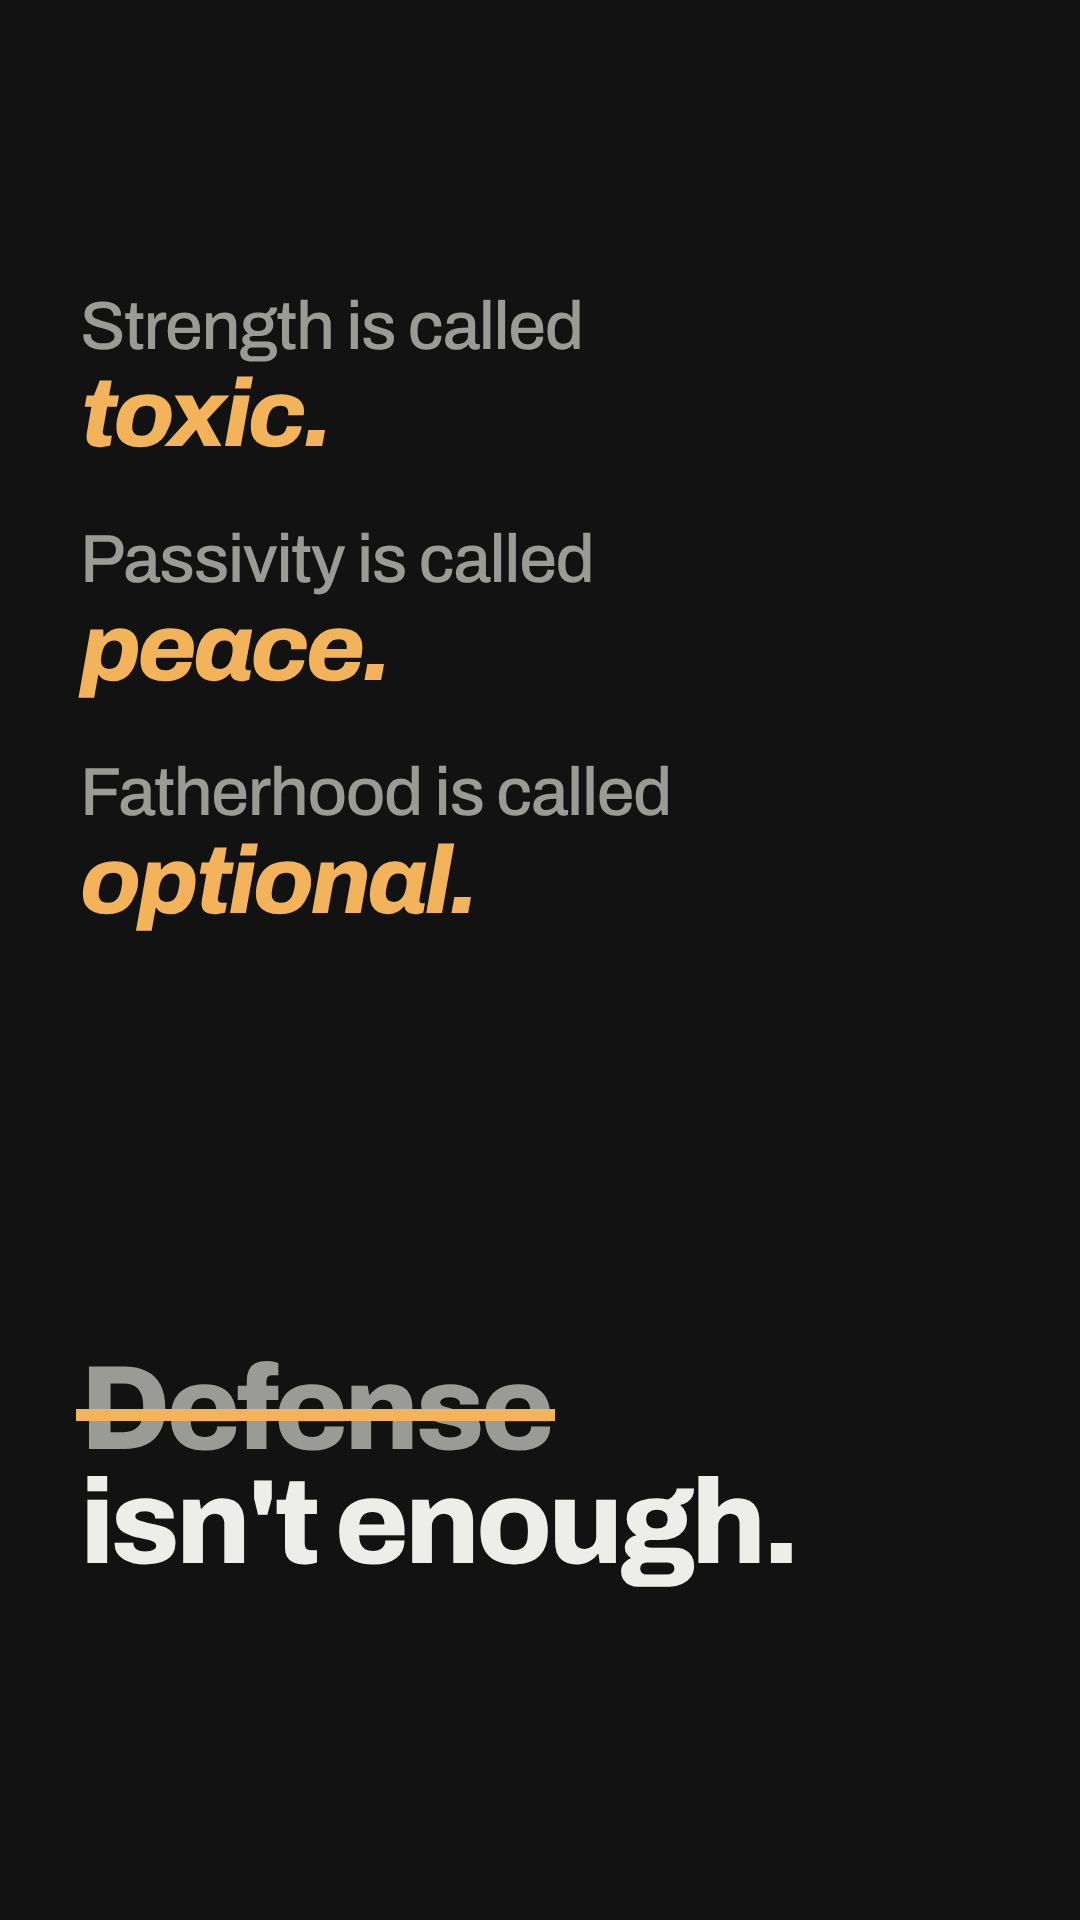
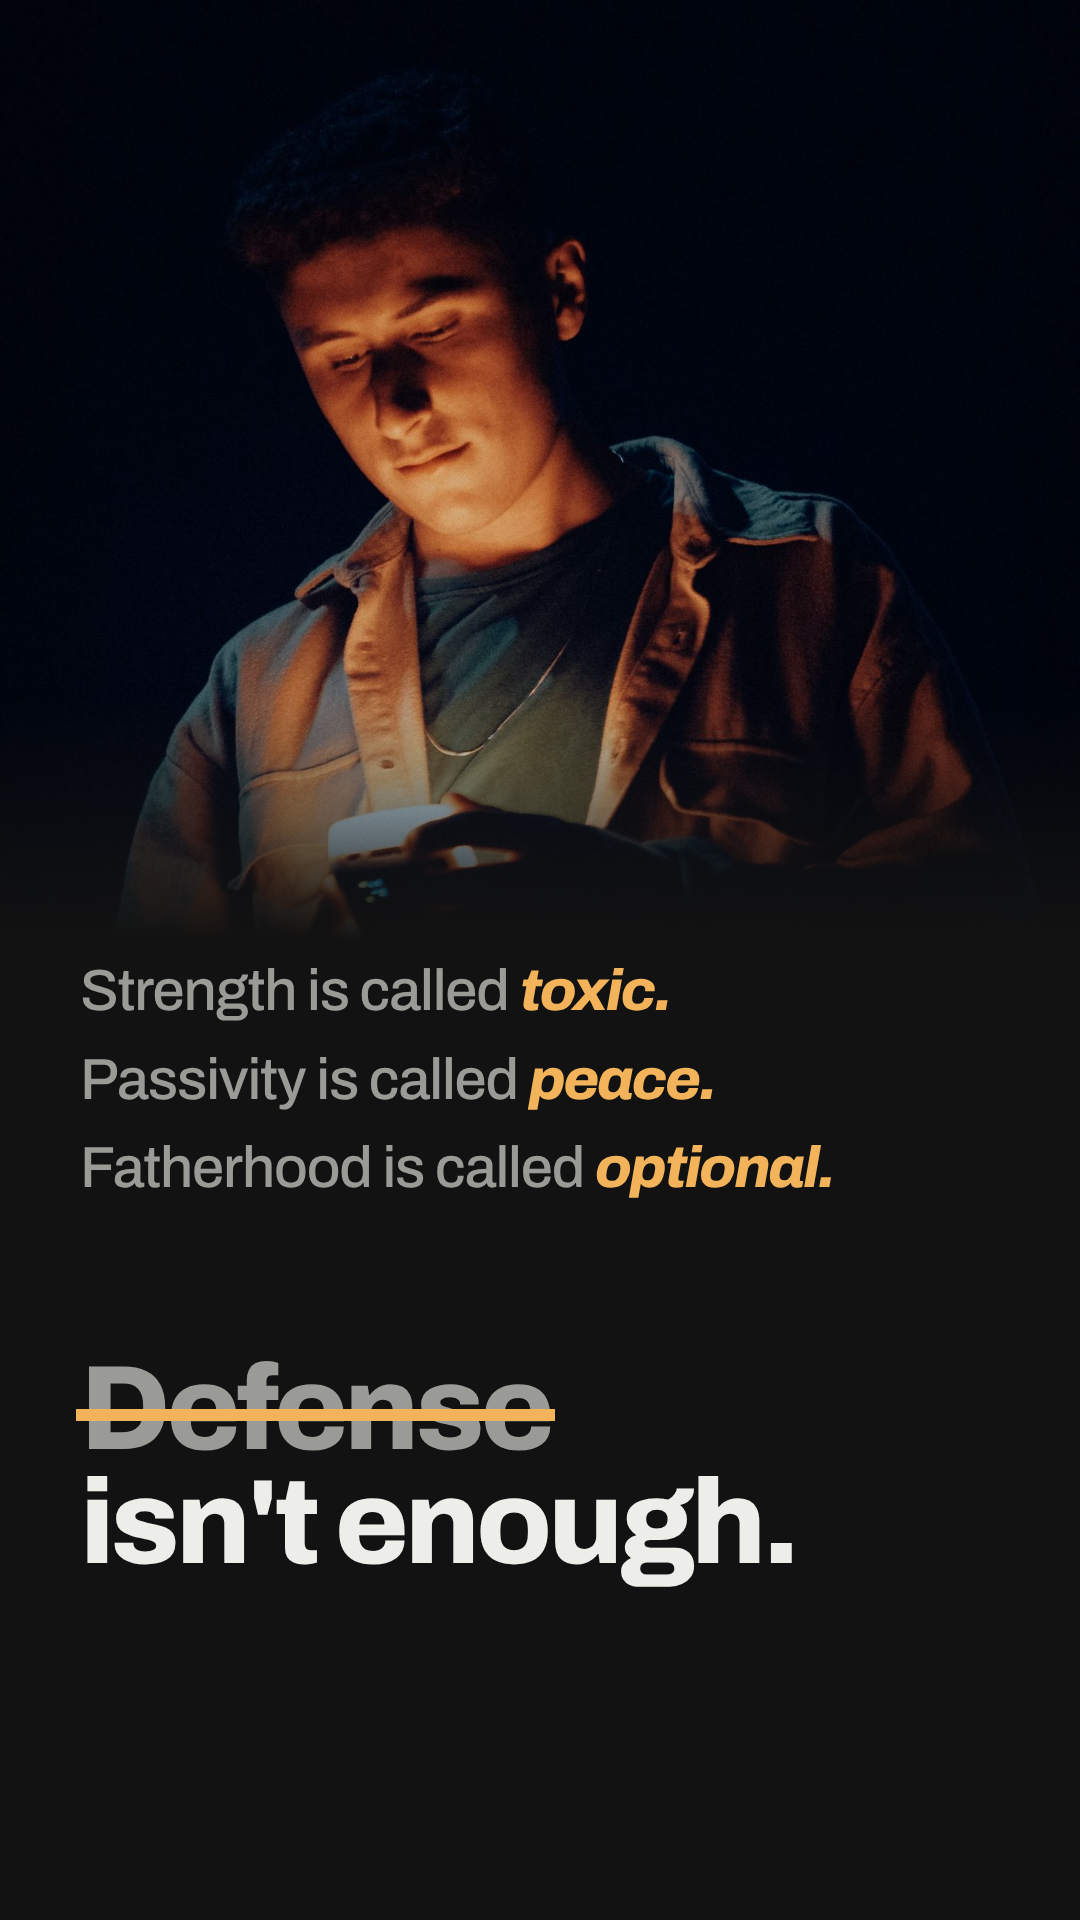
Add Pexels photos to story slides 1, 2, 5 and 6
Claude-Session: https://claude.ai/code/session_0116Hg7omUieHTTxqUcCEPH1

Changed region(s): [[0.0611, 0.0938, 0.7944, 0.625], [0.7333, 0.2812, 0.8861, 0.4375]]

diff --git a/instagram-story/story.html b/instagram-story/story.html
@@ -35,8 +35,8 @@
 
   /* S2 */
   .claims { display: grid; gap: 56px; }
-  .claim { font-weight: 500; font-size: 68px; line-height: 1.08; letter-spacing: -.02em; color: var(--mute); }
-  .claim b { display: block; font-weight: 800; color: var(--paper); font-size: 96px; letter-spacing: -.035em; }
+  .claim { font-weight: 500; font-size: 58px; line-height: 1.08; letter-spacing: -.02em; color: var(--mute); }
+  .claim b { font-weight: 800; color: var(--paper); font-size: 58px; letter-spacing: -.035em; }
   .claim i { color: var(--signal); font-weight: 800; }
   .strike { position: relative; color: var(--mute); }
   .strike::after { content: ""; position: absolute; left: -4px; right: -4px; top: 50%; height: 12px; background: var(--signal); }
@@ -60,17 +60,21 @@
 
 <!-- 1. Full-bleed photo, statement bottom-left -->
 <section class="slide" id="s1">
-  <div class="abs" style="top:50%; transform:translateY(-50%)">
+  <div class="photo" style="left:0; right:0; top:0; height:1600px; background-position:center bottom" data-n="1"></div>
+  <div style="position:absolute; inset:0; background:linear-gradient(180deg, rgba(18,18,18,.75) 0%, rgba(18,18,18,.35) 45%, rgba(18,18,18,0) 62%, rgba(18,18,18,0) 76%, var(--ink) 84%)"></div>
+  <div class="abs" style="top:var(--top)">
     <div class="label" style="margin-bottom:44px">Real talk, men</div>
     <h1 class="d xl">Men are under <em>attack.</em></h1>
-    <p class="body" style="margin-top:48px">The world has never worked this hard to make men <b>passive, soft, and absent.</b></p>
+    <p class="body" style="margin-top:48px; color:var(--paper)">The world has never worked this hard to make men <b>passive, soft, and absent.</b></p>
   </div>
 </section>
 
 <!-- 2. Type only. Three claims, then the turn -->
 <section class="slide" id="s2">
-  <div class="abs" style="top:calc(var(--top) + 40px)">
-    <div class="claims">
+  <div class="photo" style="left:0; right:0; top:0; height:940px; background-position:center 20%" data-n="2"></div>
+  <div style="position:absolute; left:0; right:0; top:700px; height:240px; background:linear-gradient(180deg,rgba(18,18,18,0),var(--ink))"></div>
+  <div class="abs" style="top:960px">
+    <div class="claims" style="gap:26px">
       <p class="claim">Strength is called <b><i>toxic.</i></b></p>
       <p class="claim">Passivity is called <b><i>peace.</i></b></p>
       <p class="claim">Fatherhood is called <b><i>optional.</i></b></p>
@@ -103,8 +107,9 @@
 
 <!-- 5. Full-width photo top, feature stack below -->
 <section class="slide" id="s5">
-  <div class="abs" style="top:var(--top)">
-    <h2 class="d m" style="margin-bottom:96px">What's <em>inside.</em></h2>
+  <div class="photo" style="left:0; right:0; top:0; height:860px; background-position:center 22%" data-n="5"></div>
+  <div class="abs" style="bottom:var(--bottom)">
+    <h2 class="d m" style="margin-bottom:64px">What's <em>inside.</em></h2>
     <div class="feats">
       <p class="feat">Daily time in the Word.<span>Short, focused, built for a real schedule.</span></p>
       <p class="feat">Growth for every role.<span>As a man, a husband, and a father.</span></p>
@@ -115,7 +120,9 @@
 
 <!-- 6. Full-bleed photo, single CTA -->
 <section class="slide" id="s6">
-  <div class="abs" style="top:50%; transform:translateY(-50%)">
+  <div class="photo" style="left:0; right:0; top:0; height:980px; background-position:center 40%" data-n="6"></div>
+  <div style="position:absolute; left:0; right:0; top:740px; height:240px; background:linear-gradient(180deg,rgba(18,18,18,0),var(--ink))"></div>
+  <div class="abs" style="bottom:var(--bottom)">
     <div class="label" style="margin-bottom:44px">Testers wanted</div>
     <h2 class="d l">I need a few <em>good</em> men.</h2>
     <p class="body" style="margin-top:44px">Use it. Break it. <b>Tell me the truth.</b></p>

diff --git a/instagram-story/photos/CREDITS.md b/instagram-story/photos/CREDITS.md
@@ -1,0 +1,12 @@
+# Photo credits
+
+| Slide | Source | Photographer |
+|---|---|---|
+| 1 | [Pexels 866877](https://www.pexels.com/photo/silhouette-of-man-standing-underneath-gray-sky-866877/) | Artem Lupanchuk |
+| 2 | [Pexels 15790322](https://www.pexels.com/photo/man-in-the-dark-with-his-face-illuminated-by-the-phone-15790322/) | Atahan Demir |
+| 3 | Own photo | |
+| 4 | Own photo | |
+| 5 | [Pexels 20464674](https://www.pexels.com/photo/back-view-of-a-father-and-son-walking-on-a-beach-20464674/) | Riccardo Vespa |
+| 6 | [Pexels 27594807](https://www.pexels.com/photo/three-men-sitting-around-a-campfire-in-the-woods-27594807/) | Mikkel Kvist |
+
+Pexels photos are used under the [Pexels License](https://www.pexels.com/license/) (free to use, attribution not required).
